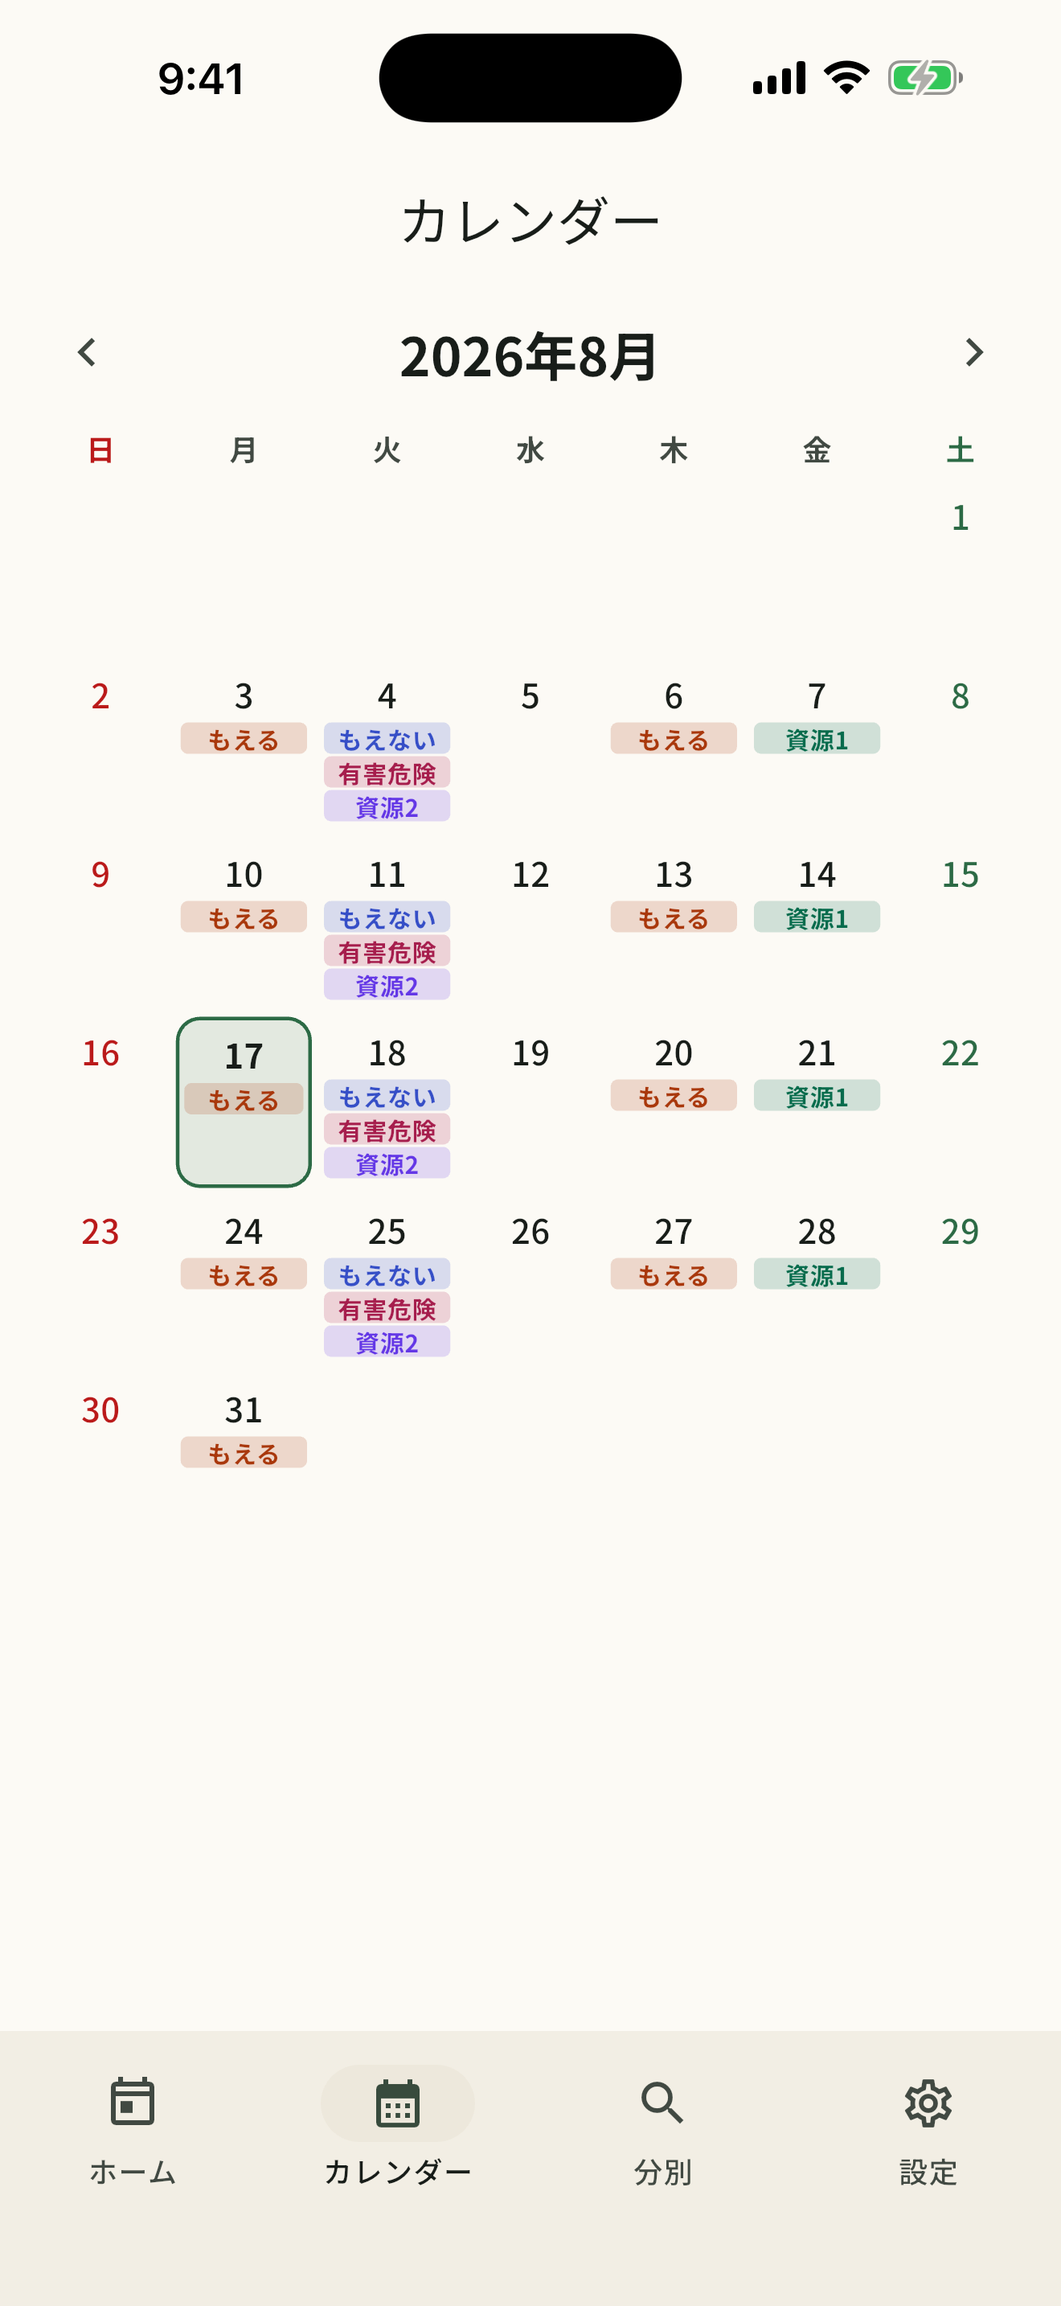
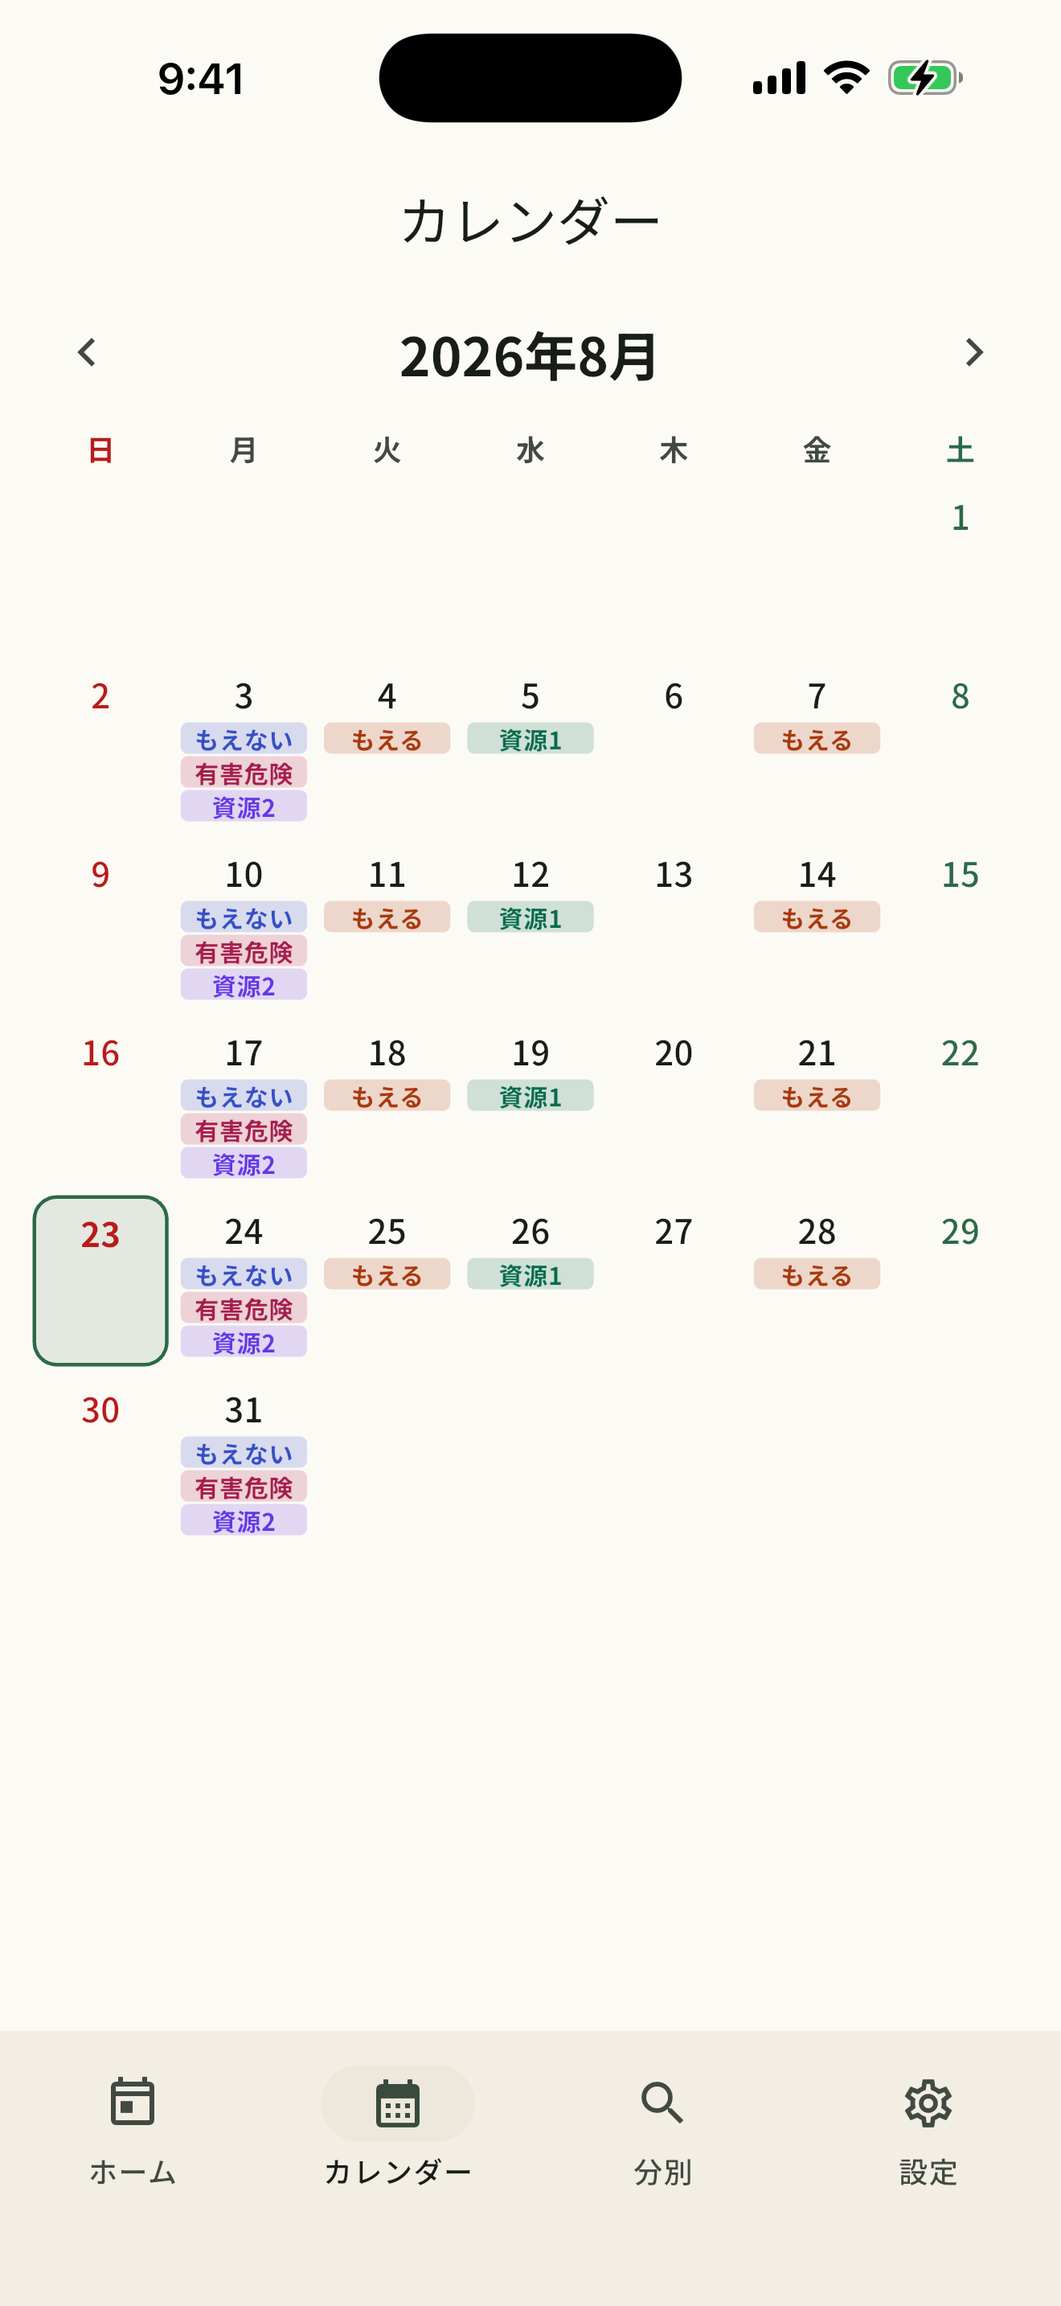
1.1.1を審査に出す準備をする
1.1.0が公開済み（App Store Connectで READY_FOR_SALE）なので、1.1.1の
提出物を用意した。App Store Connect API で反映済みで、提出ボタンだけ
押していない。

文言
- store_assets/app_store/1.1.1.md に、新機能・プロモーション・キーワード・
  審査メモ・説明の差し替え箇所をまとめた
- 「このバージョンの新機能」は1.1.0からの差分だけ。並び順の修正と、
  抜けていた3品目の追加
- キーワードは変えていない。機能が増えていないので、効いている語を
  いじる理由がない

スクリーンショット
- 6枚とも1.1.1のビルドで撮り直した。04_dictionary は今回の修正そのものが
  写る1枚で、1.1.0のものは「アイロン→アルバム→アルミ箔→油→網戸」と
  直す前の並びがそのまま写っていた
- 撮影に使う地区を「浦和区 大原1〜5丁目」から「南区 南浦和1〜4丁目」に
  変えた。撮影日が日曜で、大原だと翌月曜がもえるごみ1区分だけになり、
  ホームの「明日」もウィジェットも1区分しか出ないため
- store_assets/screenshots/README.md に撮り方を書き直した。
  simctl spawn の defaults write はアプリのコンテナではなくシミュレータ側の
  ルートに書くので効かないこと、plistはシミュレータを停止してから置くこと、
  Flutterは要求されるまで意味づけの木を作らないのでタブは座標で
  クリックすること

品目数の表記
- 443＋52で495としていた箇所を、446＋52の498に直した。
  dictionary.json 単体の件数を指している記述は446にしてある

ビルド番号
- 1.1.1+22 でアップロードしたが、同じ日にビルド22が先に上がっていたため、
  App Store Connect が受け取り時に23へ繰り上げた。審査に出るのは23なので
  pubspec.yaml もそれに合わせる

pubspec.lock は worktree を作ったときの flutter pub get による transitive の
更新。アップロードした実体もこの解決でビルドしている。

Claude-Session: https://claude.ai/code/session_01STMuCpyURizm74tbtjJUps

Changed region(s): [[0.0311, 0.3103, 0.8386, 0.6206], [0.1553, 0.6206, 0.3106, 0.6827]]

diff --git a/lib/features/dictionary/dictionary_page.dart b/lib/features/dictionary/dictionary_page.dart
@@ -18,7 +18,7 @@ import 'waste_item_sheet.dart';
 /// 収集日を知りたいのがホーム・カレンダーなら、こちらは「これは何ごみか」を
 /// 調べるための画面。名前で絞り込めることが第一なので、検索欄を最上部に置く。
 ///
-/// 一覧は市の早見表と同じ五十音順で、右端に索引を出す。495件あるので、
+/// 一覧は市の早見表と同じ五十音順で、右端に索引を出す。498件あるので、
 /// 検索語を思いつかないときに「た行あたり」と当たりを付けて飛べる必要がある。
 class DictionaryPage extends ConsumerStatefulWidget {
   const DictionaryPage({super.key});

diff --git a/scripts/make_store_screenshots.py b/scripts/make_store_screenshots.py
@@ -31,7 +31,7 @@ STRIPS = [
     ("01_home.png", "明日は何ごみ？", "開いた瞬間に分かる"),
     ("02_widget.png", "ホーム画面に\n置いておける", "開かなくても明日が分かる"),
     ("03_calendar.png", "今月の収集日が\nひと目で", "なぞって月をめくる"),
-    ("04_dictionary.png", "495品目を\n五十音で探せる", "「椅子」でも「いす」でも引ける"),
+    ("04_dictionary.png", "498品目を\n五十音で探せる", "「椅子」でも「いす」でも引ける"),
     ("05_settings.png", "前日の夜に\nお知らせ", "出し忘れを防ぐ"),
 ]
 

diff --git a/store_assets/app_store/1.1.1.md b/store_assets/app_store/1.1.1.md
@@ -1,0 +1,122 @@
+# 1.1.1 の App Store 提出用文言
+
+1.1.0（ビルド21）から1.1.1（ビルド23）で変わったところをもとに書いた文言。
+**App Store Connect API で反映済み**（バージョン1.1.1を作り、ビルド23を紐づけ、
+スクリーンショット6枚も入れ替え済み）。提出ボタンだけ押していない。
+
+1.1.0は App Store Connect API で確認したところ READY_FOR_SALE、つまり
+すでに公開済みなので、「このバージョンの新機能」は1.1.0からの差分だけを書く。
+
+`pubspec.yaml`は1.1.1+22のまま出したが、同じ日にビルド22が先に上がっていたため、
+App Store Connect 側が受け取ったときに23へ繰り上げた（ビルド番号の自動管理）。
+アップロードした実体のInfo.plistは22だが、審査に出るのは23。リポジトリの
+ビルド番号も23に合わせてある。
+
+括弧内は App Store Connect の入力欄の上限文字数。
+
+## このバージョンの新機能（4,000字）
+
+```
+分別の一覧の並び順を直しました。
+
+■ 読みの五十音順に並ぶようになりました
+一覧が読みの順になっていませんでした。「あ行」の先頭が「アイロン」の次に「アルバム」「アルミ箔」と続き、その後ろに「油」「網戸」が来ていました。市の分別早見表と同じ、読みの五十音順に並べ直しました。索引で行へ飛んだあと、目当ての品目のあたりを付けやすくなります。
+
+■ 抜けていた3品目を足しました
+「（車の）ホイール」「カセットボンベ（カートリッジ式ボンベ）」「マーガリン・バターの容器（プラスチック製）」が一覧に出ていませんでした。市の資料から取り込むときに落ちていたものです。調べられる品目は495品目から498品目になりました。
+
+いずれも端末の中だけで完結します。通信しない点はこれまでどおりです。
+```
+
+## プロモーションテキスト（170字）
+
+1.1.0のものを残し、品目数だけ498に直した。ホーム画面ウィジェットは
+1.1.0で入れたものだが、いちばん新しい目玉の機能であることは変わらないので
+差し替えない。
+
+```
+ホーム画面ウィジェットを追加しました。アプリを開かなくても、明日は何ごみかがホーム画面で分かります。分別で調べられる品目は498品目に増え、「椅子」でも「いす」でも引けるようになりました。
+```
+
+## キーワード（100字・カンマ区切り）
+
+変更なし。1.1.1で機能は増えていないので、効いている語をいじる理由がない。
+
+```
+ごみ,ゴミ,ごみ出し,ゴミ出し,分別,ごみ分別,収集日,ごみの日,埼玉,埼玉県,浦和,大宮,岩槻,リマインダー,通知,ウィジェット,粗大ごみ
+```
+
+## 説明（4,000字）— 1.1.0からの差し替え箇所
+
+骨格は1.1.0のまま、品目数の2か所だけを直した。
+
+1. 「■ 495品目の分別を、五十音で探せる」→「■ 498品目の…」
+2. 本文の「…品目を補って、495品目を収録しました」→「…498品目を収録しました」
+
+早見表そのものは443件から446件になった（落ちていた3品目を戻したため）。
+498は、そこに図解のページからの補い52件を足した数。
+
+## App Review に関する情報（審査メモ）
+
+1.0.0からの日英併記をそのまま残し、末尾の「今回の変更（1.1.0）について」／
+「What is new in this version (1.1.0)」の節だけを1.1.1のものに差し替えた。
+機能も権限も増えていないことを、担当者が最初に読めるようにしてある。
+
+```
+■ 今回の変更（1.1.1）について
+
+分別の一覧の並び順の修正です。読みの五十音順に並ぶようになりました
+（これまでは同じ行の中で、カタカナの品目が漢字の品目より前に来ていました）。
+あわせて、市の資料から取り込むときに落ちていた3品目
+（「（車の）ホイール」「カセットボンベ（カートリッジ式ボンベ）」
+「マーガリン・バターの容器（プラスチック製）」）を足し、調べられる品目が
+495から498になりました。
+
+機能の追加はなく、新しい権限も要求しません。サーバーと通信しない点も
+1.0.0から変わっていません。
+```
+
+```
+■ What is new in this version (1.1.1)
+
+This version fixes the ordering of the sorting dictionary. Items are now listed
+in Japanese phonetic (gojuon) order of their readings; previously, within the
+same row, katakana items sorted before kanji items. It also restores three items
+that had been dropped while extracting the data from the city's materials,
+bringing the dictionary from 495 to 498 items.
+
+There are no new features and no new permissions. As in 1.0.0, the app does not
+communicate with any server.
+```
+
+## 変更しないもの
+
+- 年齢制限（4+）、カテゴリ、価格
+- プライバシー申告（データを収集しない）
+- 暗号化の申告 — `ITSAppUsesNonExemptEncryption = false`
+  （`ios/Runner/Info.plist`）
+- iPhone専用（`TARGETED_DEVICE_FAMILY = 1`）。iPad用スクリーンショットは不要
+- サポートURL（GitHubのIssues）
+
+## スクリーンショット
+
+`store_assets/screenshots/6.9-inch-decorated/` の6枚。枚数と並びは1.1.0と同じで、
+中身は1.1.1のビルドで撮り直した。
+
+| # | ファイル | コピー |
+|---|---|---|
+| 1 | `00_onboarding.png` | 郵便番号だけで／すぐ使える |
+| 2 | `01_home.png` | 明日は何ごみ？ |
+| 3 | `02_widget.png` | ホーム画面に／置いておける |
+| 4 | `03_calendar.png` | 今月の収集日が／ひと目で |
+| 5 | `04_dictionary.png` | 498品目を／五十音で探せる |
+| 6 | `05_settings.png` | 前日の夜に／お知らせ |
+
+`04_dictionary.png` は今回の修正そのものが写る1枚なので、必ず差し替える。
+1.1.0のものは「アイロン→アルバム→アルミ箔→油→網戸」と、直す前の並びが
+そのまま写っていた。
+
+撮影に使った地区を「浦和区 大原1〜5丁目」から「南区 南浦和1〜4丁目」に変えた。
+撮影日（2026-08-23・日曜）の翌日に収集がある区分の数で選んでいる。大原だと
+月曜がもえるごみだけになり、ホームの「明日」もウィジェットも1区分しか
+出ないため、南浦和（月曜がもえない・有害危険・資源物2類の3区分）にした。

diff --git a/store_assets/screenshots/README.md b/store_assets/screenshots/README.md
@@ -5,24 +5,64 @@ App Storeが必須とするサイズ。
 
 ## 撮り方
 
+シミュレータには`flutter build ios --simulator`のdebugビルドを入れる。
+Releaseはシミュレータ向けに作れない（`flutter build`が断る）が、
+`debugShowCheckedModeBanner: false`にしてあるので見た目は変わらない。
+
 シミュレータでは実機のように地区選択のUI操作を自動化するのが難しいため、
 `NSUserDefaults`（`flutter.selected_area`キー）に地区データを直接書き込んで
 状態を再現している。
 
+`plutil`や`defaults`で書くのではなく、**シミュレータを停止させてから
+plistを丸ごと置き、起動し直す**。動いている間に書いても`cfprefsd`が
+自分のキャッシュを正としてしまい、アプリからは読めない。
+`xcrun simctl spawn <UDID> defaults write` も効かない。spawnした
+プロセスはアプリのサンドボックスの外にいるので、書き込み先が
+アプリのコンテナではなくシミュレータ側のルートになる。
+
 ```bash
 SIM=<シミュレータのUDID>
-CONTAINER=$(xcrun simctl get_app_container $SIM io.github.ktakada42.saitamagomicalendar data)
-PLIST="$CONTAINER/Library/Preferences/io.github.ktakada42.saitamagomicalendar.plist"
-# アプリを一度起動してplistを作らせてから、terminateして書き込む
+BID=io.github.ktakada42.saitamagomicalendar
+CONTAINER=$(xcrun simctl get_app_container $SIM $BID data)
+xcrun simctl shutdown $SIM
+# $CONTAINER/Library/Preferences/$BID.plist を作る（plistlibなど）
+#   flutter.selected_area        … areas.json の地区をそのままJSON文字列で
+#   flutter.notification_enabled … true（通知のコピーと画面を合わせるため）
+#   flutter.notification_minutes … 1200（20:00）
+#   flutter.theme_mode           … light
+xcrun simctl boot $SIM
 ```
 
-使用した地区は「浦和区 大原1〜5丁目」（`assets/data/areas.json`の`manual-151`）。
-5区分がバランスよく別々の曜日に散らばっており、カレンダー・ホームの
-見た目が分かりやすいため選んだ。
+地区は撮る日によって選び直す。**翌日に何区分の収集があるかで、ホームの
+「明日」とウィジェットの見え方が決まる**ため。1.1.1では日曜に撮ったので、
+月曜が3区分（もえない・有害危険・資源物2類）ある「南区 南浦和1〜4丁目」
+（`areas.json`の`manual-213`）を使った。1.1.0までは「浦和区 大原1〜5丁目」
+（`manual-151`）で、こちらは月曜がもえるごみだけになる。
 
-タブの遷移はSystem Eventsのアクセシビリティ経由でボトムメニューの
-`AXButton`を直接クリックしている（座標クリックは機種ごとの余白の違いで
-ずれるため使っていない）。
+ステータスバーは`xcrun simctl status_bar`で揃える。再起動すると外れるので、
+`boot`のたびに掛け直す。
+
+```bash
+xcrun simctl status_bar $SIM override --time "9:41" \
+  --dataNetwork wifi --wifiMode active --wifiBars 3 \
+  --cellularMode active --cellularBars 4 \
+  --batteryState charging --batteryLevel 100
+```
+
+タブの遷移はSystem Events経由でボトムメニューを座標クリックする。
+Flutterはアクセシビリティが要求されるまで意味づけの木を作らないので、
+`AXButton`を名前で探しても出てこない。
+
+画面の座標からMacの座標への変換は、Simulatorウィンドウの`group 1`
+（＝端末の画面そのもの）の位置と大きさから出す。ウィンドウの位置や
+表示倍率が変わっても、これなら追随する。
+
+```bash
+osascript -e 'tell application "System Events" to tell process "Simulator" \
+  to return {position of group 1 of window 1, size of group 1 of window 1}'
+# 画面(pt) → Mac = 位置 + 画面座標 × (group1の大きさ ÷ 440x956)
+# タブの中心は y=879pt、x はホーム55 / カレンダー164 / 分別273 / 設定384
+```
 
 **初回設定の画面を撮るときは、アプリを`uninstall`してから入れ直す。**
 plistを消すだけでは`cfprefsd`がキャッシュを持っていて効かず、
@@ -96,5 +136,5 @@ python3 scripts/make_store_screenshots.py
 | `01_home.png` | ホーム | 明日は何ごみ？ |
 | `02_widget.png` | ホーム画面ウィジェット（中・小） | ホーム画面に／置いておける |
 | `03_calendar.png` | カレンダー | 今月の収集日が／ひと目で |
-| `04_dictionary.png` | 分別 | 495品目を／五十音で探せる |
+| `04_dictionary.png` | 分別 | 498品目を／五十音で探せる |
 | `05_settings.png` | 設定 | 前日の夜に／お知らせ |

diff --git a/docs/requirements.md b/docs/requirements.md
@@ -125,7 +125,7 @@
   ダイアログには元の資料へのリンクも添える。要約なので、判断に迷うときの
   ために元の資料へ出られるようにする（このアプリについて・分別の詳細
   シートと同じ考え方）
-- 右端に五十音の索引を出す。495件あるので、検索語を思いつかないときに
+- 右端に五十音の索引を出す。498件あるので、検索語を思いつかないときに
   当たりを付けられる必要がある。絞り込み中は行が飛び飛びになって
   かえって探しにくいので出さない
 - 索引は**五十音の行（あ・か・さ…）10個**。市の早見表はかな1文字ごとに
@@ -305,7 +305,7 @@
 
 同梱アセット（`assets/data/dictionary.json`）に、品目ごとの出し先を持つ。
 
-- `items`：品目名・出し先ID・出し先の表示名・出し方の注意点。443件
+- `items`：品目名・出し先ID・出し先の表示名・出し方の注意点。446件
 - 出し先は5区分（`GarbageCategory`）に加えて、粗大ごみ・小型家電・電池回収ボックス・
   収集できないもの、の4つを持つ。5区分に丸めない
 - 出典は同じPDFマニュアルの「ごみの分別早見表」。生成方法は

diff --git a/README.md b/README.md
@@ -23,7 +23,7 @@
 | 初回設定 | 郵便番号または一覧から地区を選ぶと曜日が自動で決まる。地区が見つからない場合のみ曜日を手入力する。設定するまで他の画面に進まない |
 | ホーム | 明日の分別を最大サイズで表示。収集日の朝は、出す期限を過ぎるまで「今日」を出す。この先の予定・分別ごとの次回収集日 |
 | カレンダー | 当月のごみ出し日を月表示。左右になぞって月を送れる（前1か月・後3か月）。日をタップで出し方 |
-| 分別 | 495品目を五十音順に。品目名で検索、右端の索引をなぞって行へ飛ぶ |
+| 分別 | 498品目を五十音順に。品目名で検索、右端の索引をなぞって行へ飛ぶ |
 | 設定 | 地区の変更、通知、画面の明るさ、設定中の曜日一覧、分別ごとの出し方 |
 | このアプリについて | バージョン・出典・プライバシーポリシー・ライセンス |
 
